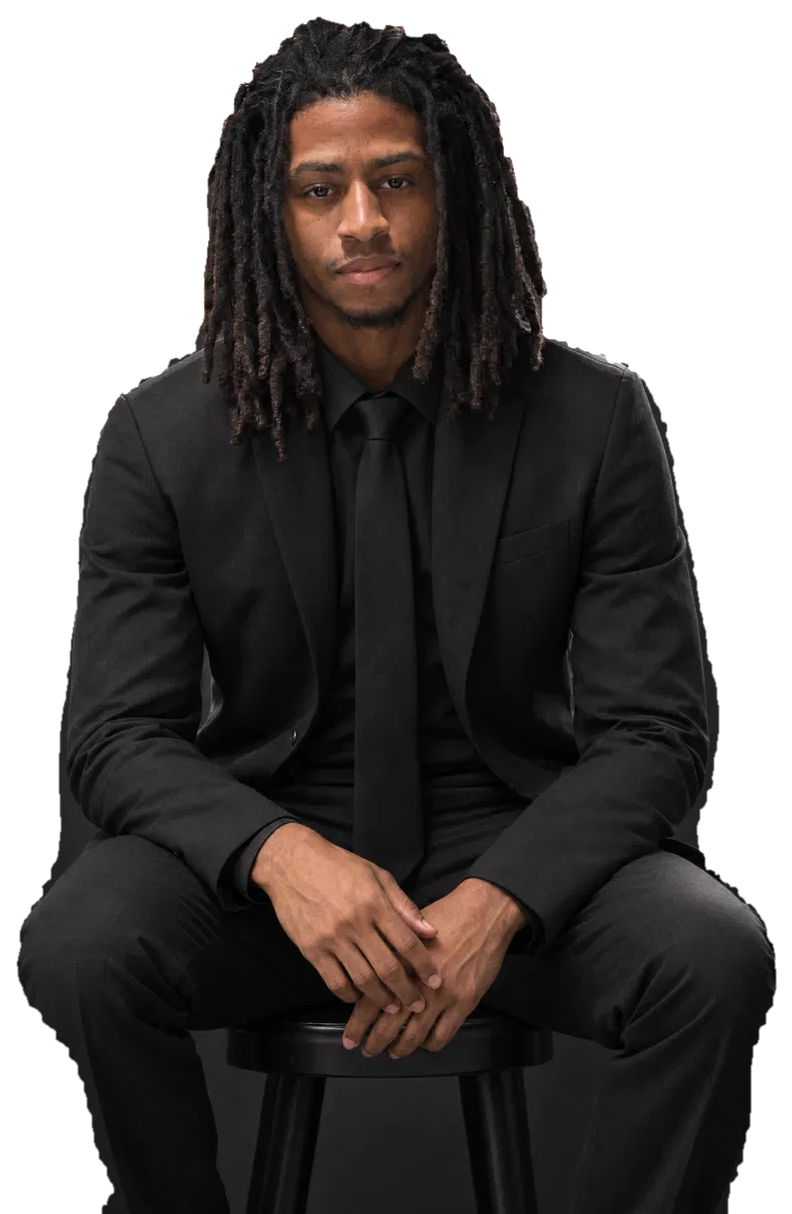
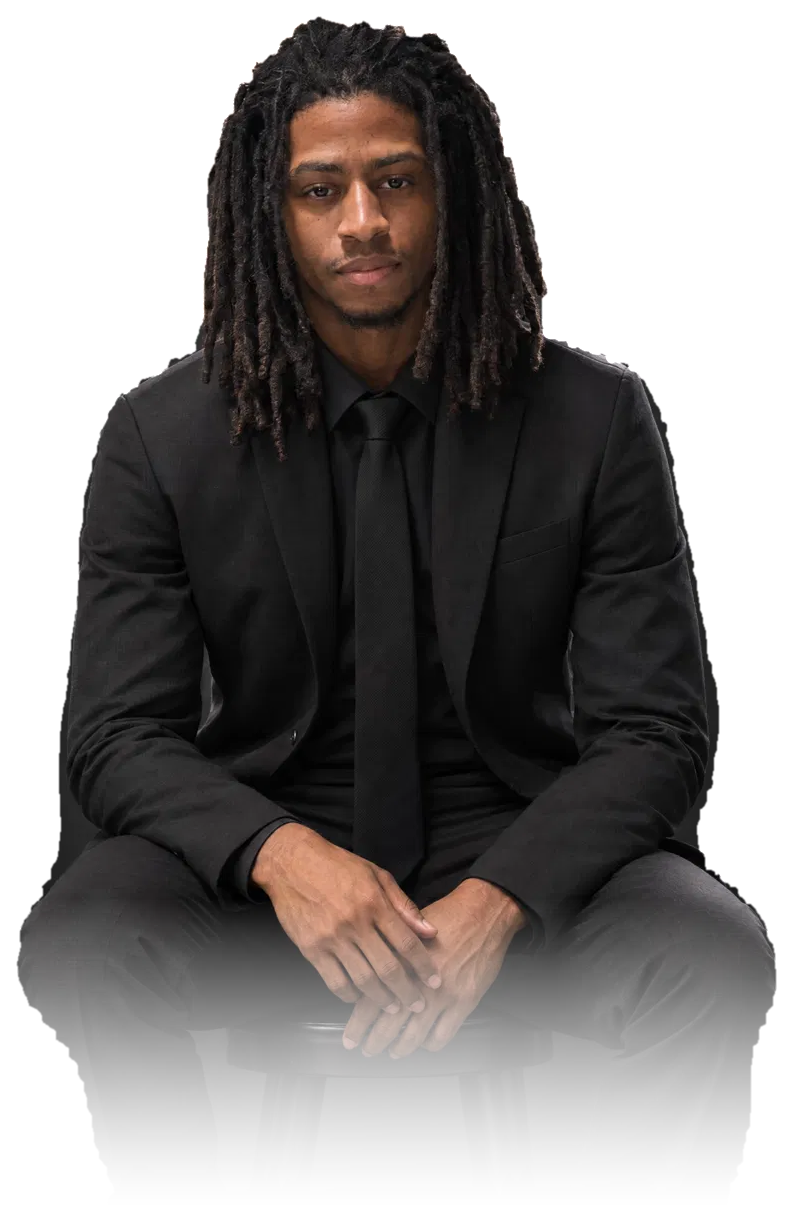
Fade the portrait's bottom edge into transparency (masks the jagged stool-leg cutoff) and add breathing room around it in the hero

Changed region(s): [[0.0, 0.7315, 1.0, 1.0]]

diff --git a/index.html b/index.html
@@ -440,11 +440,13 @@
     width: 100%;
     display: flex;
     justify-content: flex-end;
+    padding-bottom: 32px;
+    padding-right: 8px;
   }
 
   .hero-photo-wrap {
     position: relative;
-    height: min(80vh, 720px);
+    height: min(70vh, 640px);
     width: auto;
     max-width: 100%;
     aspect-ratio: 792 / 1214;
